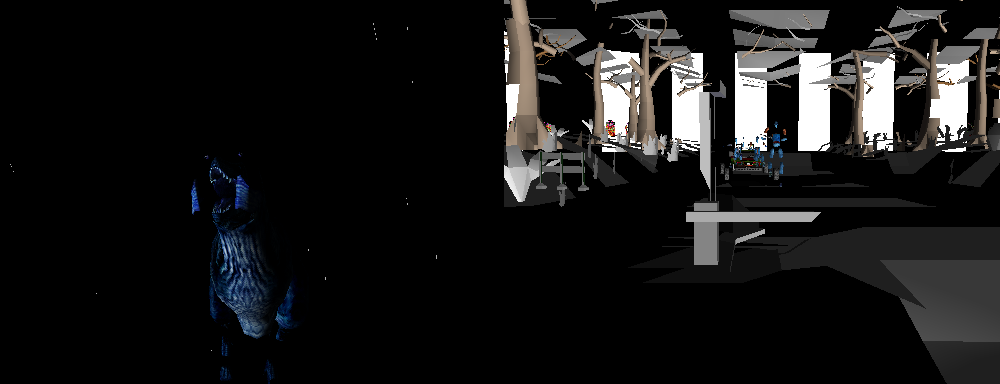
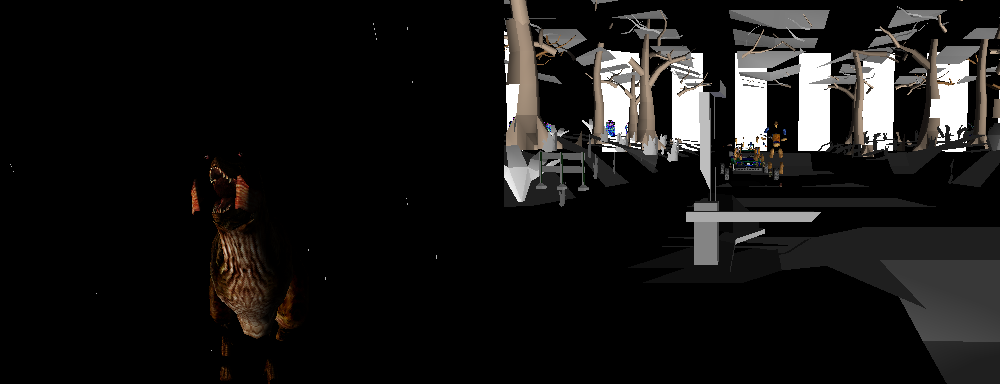
Recapture with the texel channels the right way round

diff --git a/README.md b/README.md
@@ -4,8 +4,10 @@
 
 Left: the attract scene, a textured T-Rex roaring in the rain.
 
-Right: stage one during a round, with the tilemap layers off so the
-Real3D is visible on its own.
+Right: stage one during a round, tilemap layers off so the Real3D is
+visible on its own. Most of its surfaces are flat because their
+textures resolve to a page of texture memory nothing is ever uploaded
+to -- see docs/technical/real3d.md.
 
 **The Lost World: Jurassic Park** (Sega, 1997) statically recompiled — the
 game's PowerPC code becomes native C, linked against a Model 3 board.
